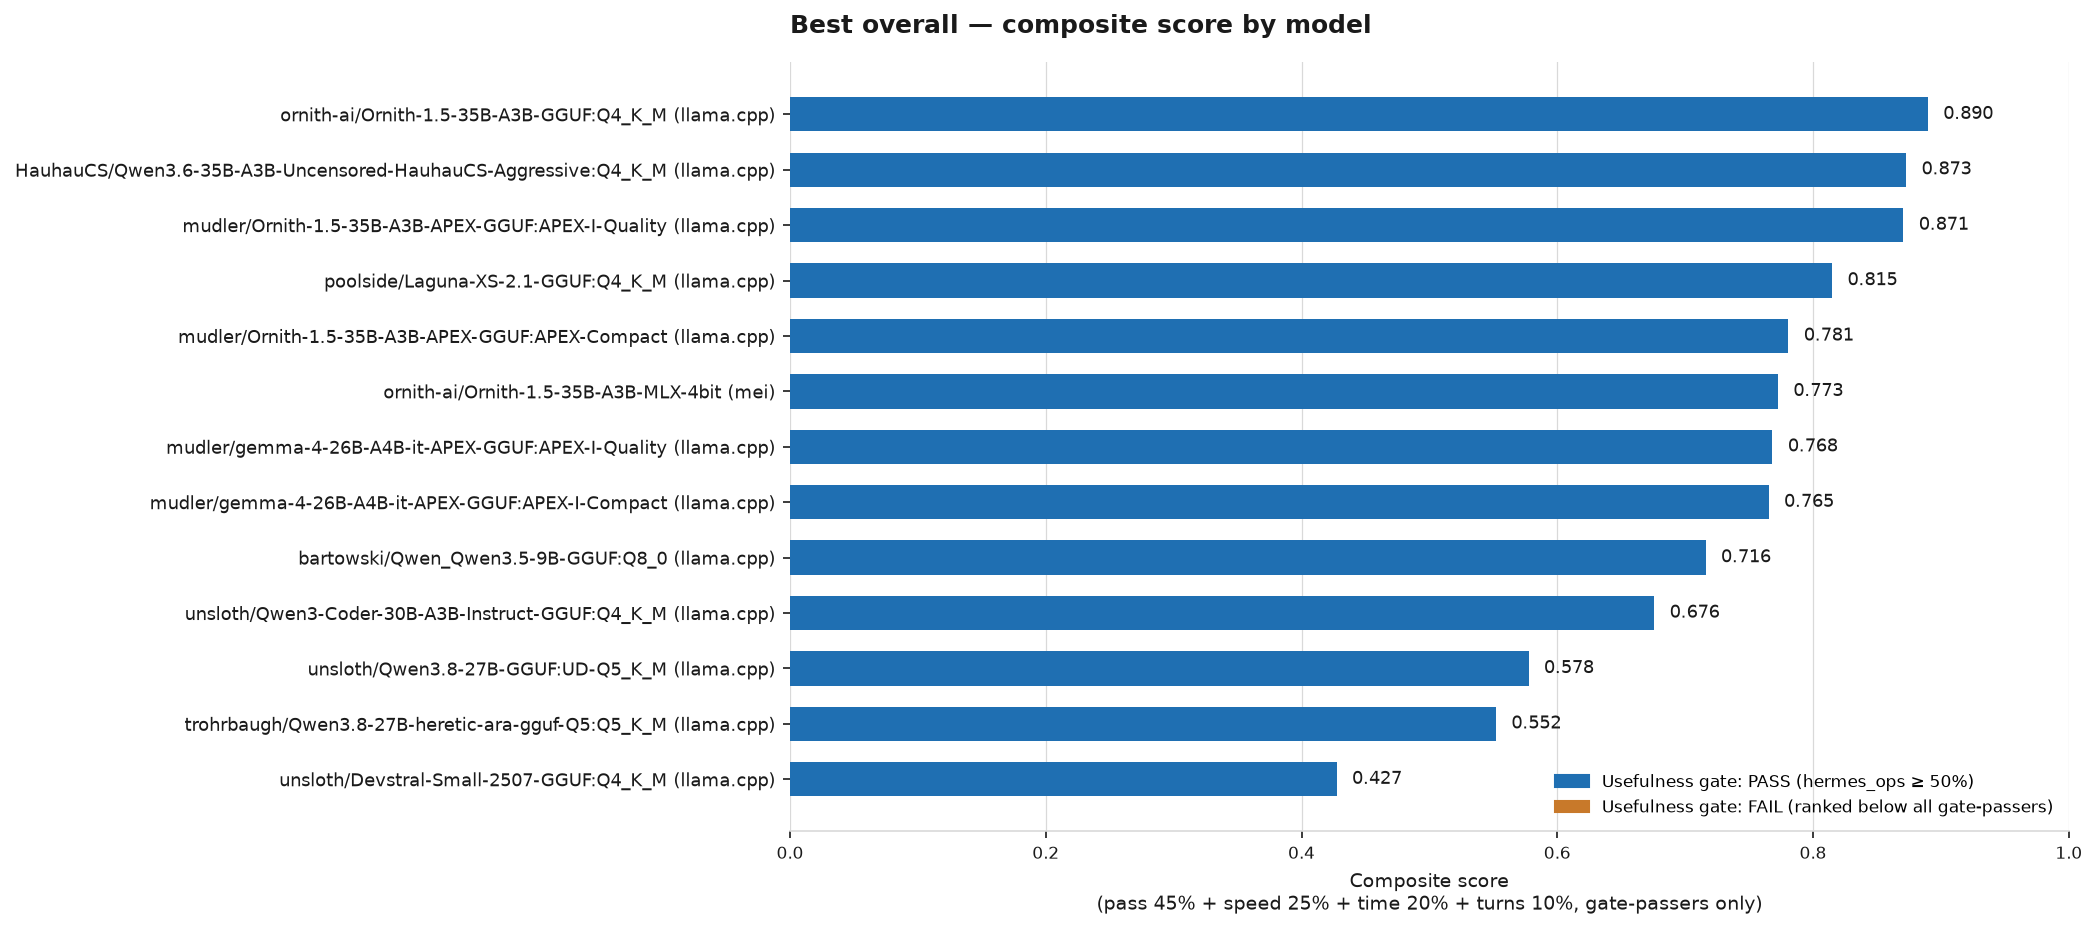
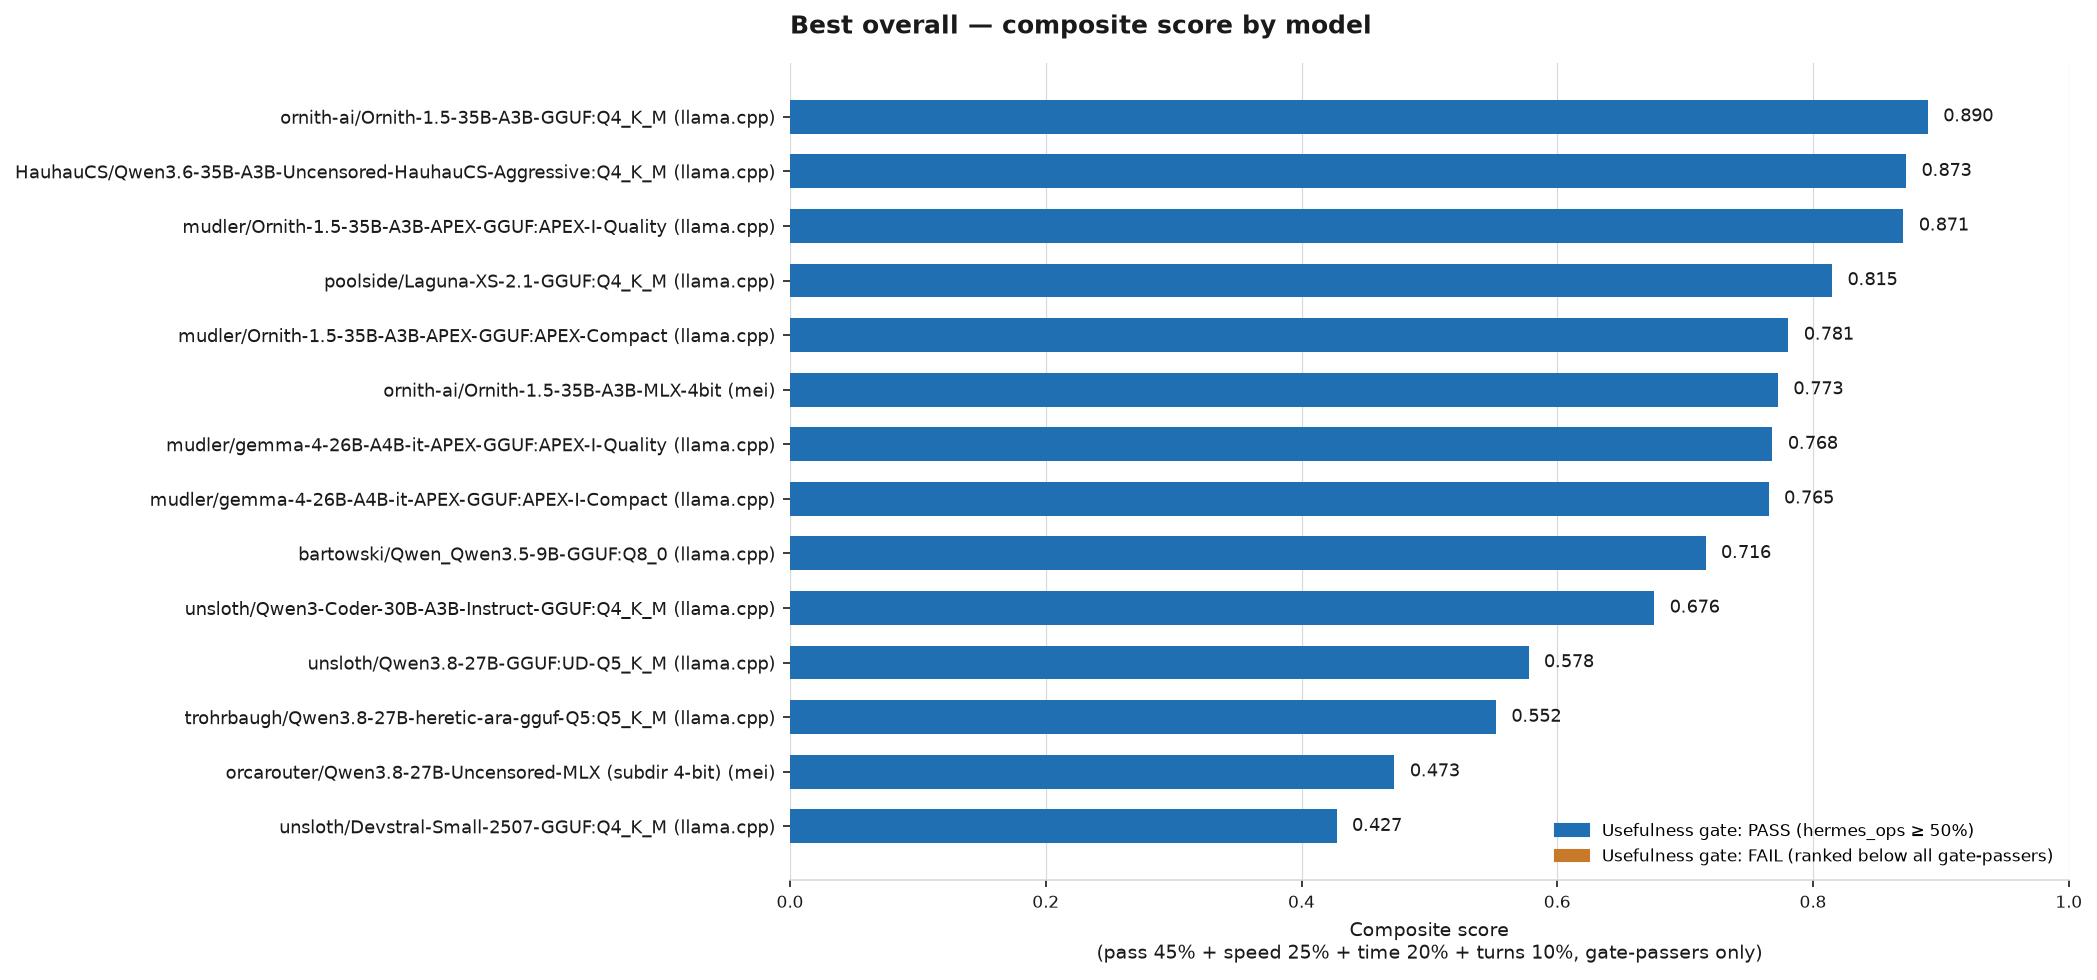
results(mei#67e897e): Heretic/Qwen3.8-27B-Uncensored-MLX full post-fix benchmark (kiem_mini, hearth_mini, kipclip_mini, hearth_full)
Post-fix complete run for configs/Qwen3.8-27B-Uncensored/mei.yaml
(mei_source_commit 67e897e streaming multi-tool-call SSE-index fix,
config_hash 40fbffd03a95, clean runner_git_sha 0e516aa414aa).

25 total rows this leg (2 sanity + 8 hermes_ops + 15 coding);
18/25 graded PASS (72%), 0 harness errors, 0 non-zero exit codes.
Defect scan clean: no malformed tool calls, connection resets, or crashes;
SSE-index fix held. Discordant rows are model-level only (max_turns loops,
per-task 3000s timeouts, one finish_reason=length truncation).
No speed gate (hermes_ops avg 4.96 tok/s > 4.0) -> full suites ran.
Prior 2-row interrupted leg (runner sha ab5fe7ef2281) preserved append-only.
Leaderboard + score chart rebuilt (2301 rows / 14 groups).

diff --git a/results/LEADERBOARD.md b/results/LEADERBOARD.md
@@ -3,7 +3,7 @@
 Regenerated from `log.jsonl` by `runner/build_leaderboard.py` — do not
 hand-edit rows below, edit the log and regenerate instead.
 
-> **⚠ 138/2276 rows below predate 2026-08-21
+> **⚠ 138/2301 rows below predate 2026-08-21
 > grading fixes** (no `runner_git_sha` — that field didn't exist yet).
 > **Do not treat any pre-2026-08-21 PASS/FAIL as final signal** until
 > re-run under current grading. Known-affected checks: `kiem_mini-feature`
@@ -255,6 +255,7 @@ added explicitly to record that default rather than leave it invisible.
 | openai/gpt-5.6-luna | openrouter | — | None | unspecified | n/a | 2/2 | [f1e3043189f3](configs/f1e3043189f3.yaml) | 1e67356823c2 | 9 | 100% | 0 | 35.5 | 4.80 | 0 | — | 0 | — | — | — | — |
 | openai/gpt-5.6-luna | openrouter | — | None | unspecified | n/a | — | [f1e3043189f3](configs/f1e3043189f3.yaml) | 20ce58c43993+dirty | 17 | 94% | 0 | 25.9 | 3.35 | 0 | 11.8 | 17 | — | — | — | — |
 | openai/gpt-5.6-luna | openrouter | — | None | unspecified | n/a | 2/2 | [f1e3043189f3](configs/f1e3043189f3.yaml) | 9d8c6a3619ec+dirty | 2 | 100% | 0 | 12.3 | 2.15 | 0 | — | 0 | — | — | — | — |
+| orcarouter/Qwen3.8-27B-Uncensored-MLX (subdir 4-bit) | mei | — | 1.0 | thinking | n/a | 2/2 | [40fbffd03a95](configs/40fbffd03a95.yaml) | 0e516aa414aa | 23 | 70% | 16 | 6.6 | 304.51 | 0 | 9.2 | 7 | 2.1 | MLX 4-bit affine g64 (orcarouter repack of heretic-org abliteration, qwen3_5 arch) | — | — |
 | orcarouter/Qwen3.8-27B-Uncensored-MLX (subdir 4-bit) | mei | — | 1.0 | thinking | n/a | 2/2 | [40fbffd03a95](configs/40fbffd03a95.yaml) | ab5fe7ef2281 | 0 | n/a (all harness errors) | 0 | 8.3 | 7.32 | 0 | — | 0 | 0.4 | MLX 4-bit affine g64 (orcarouter repack of heretic-org abliteration, qwen3_5 arch) | — | — |
 | orcarouter/Qwen3.8-27B-Uncensored-MLX (subdir 4-bit) | mei | — | 1.0 | thinking | n/a | — | [9a0bccfab07b](configs/9a0bccfab07b.yaml) — *config since changed* | 952f3df59606 | 20 | 65% | 13 | 5.7 | 379.91 | 1 | 10.7 | 12 | 2.3 | MLX 4-bit affine g64 (orcarouter repack of heretic-org abliteration, qwen3_5 arch) | — | — |
 | orcarouter/Qwen3.8-27B-Uncensored-MLX (subdir 4-bit) | mei | — | 1.0 | thinking | n/a | 2/2 | [9a0bccfab07b](configs/9a0bccfab07b.yaml) — *config since changed* | b293b2de057f | 3 | 33% | 1 | 5.8 | 218.79 | 0 | — | 0 | 2.0 | MLX 4-bit affine g64 (orcarouter repack of heretic-org abliteration, qwen3_5 arch) | — | — |
@@ -366,7 +367,8 @@ most total coding+hermes_ops evidence, then recency.
 | 10 | unsloth/Qwen3-Coder-30B-A3B-Instruct-GGUF:Q4_K_M | llama.cpp | — | instruct | 644415678c37 | PASS (75%, 8) | 0.676 | 87% (15) | 20.8 tok/s | 299 | 27.5 |
 | 11 | unsloth/Qwen3.8-27B-GGUF:UD-Q5_K_M | llama.cpp | — | thinking (medium) | 340ca3032e6c | PASS (88%, 8) | 0.578 | 87% (15) | 6.7 tok/s | 841 | 13.3 |
 | 12 | trohrbaugh/Qwen3.8-27B-heretic-ara-gguf-Q5:Q5_K_M | llama.cpp | — | thinking (medium) | 891242963db5 | PASS (100%, 8) | 0.552 | 80% (15) | 6.5 tok/s | 1129 | 15.4 |
-| 13 | unsloth/Devstral-Small-2507-GGUF:Q4_K_M | llama.cpp | — | n/a | ffa862c18cff | PASS (75%, 8) | 0.427 | 60% (15) | 7.7 tok/s | 1021 | 27.9 |
+| 13 | orcarouter/Qwen3.8-27B-Uncensored-MLX (subdir 4-bit) | mei | — | thinking | 40fbffd03a95 | PASS (62%, 8) | 0.473 | 73% (15) | 6.6 tok/s | 1240 | 15.3 |
+| 14 | unsloth/Devstral-Small-2507-GGUF:Q4_K_M | llama.cpp | — | n/a | ffa862c18cff | PASS (75%, 8) | 0.427 | 60% (15) | 7.7 tok/s | 1021 | 27.9 |
 
 ![Best overall composite score by model](score_chart.png)
 
@@ -783,6 +785,12 @@ confirmed-stable, just untested for flakiness.
 | openai/gpt-5.6-luna | openrouter | f1e3043189f3 | 20ce58c43993+dirty | kipclip_mini | 3/3 |
 | openai/gpt-5.6-luna | openrouter | f1e3043189f3 | 9d8c6a3619ec+dirty | hermes_ops | 2/2 |
 | openai/gpt-5.6-luna | openrouter | f1e3043189f3 | 9d8c6a3619ec+dirty | sanity | 2/2 |
+| orcarouter/Qwen3.8-27B-Uncensored-MLX (subdir 4-bit) | mei | 40fbffd03a95 | 0e516aa414aa | hearth_full | 2/3 |
+| orcarouter/Qwen3.8-27B-Uncensored-MLX (subdir 4-bit) | mei | 40fbffd03a95 | 0e516aa414aa | hearth_mini | 3/3 |
+| orcarouter/Qwen3.8-27B-Uncensored-MLX (subdir 4-bit) | mei | 40fbffd03a95 | 0e516aa414aa | hermes_ops | 5/8 |
+| orcarouter/Qwen3.8-27B-Uncensored-MLX (subdir 4-bit) | mei | 40fbffd03a95 | 0e516aa414aa | kiem_mini | 2/5 |
+| orcarouter/Qwen3.8-27B-Uncensored-MLX (subdir 4-bit) | mei | 40fbffd03a95 | 0e516aa414aa | kipclip_mini | 4/4 |
+| orcarouter/Qwen3.8-27B-Uncensored-MLX (subdir 4-bit) | mei | 40fbffd03a95 | 0e516aa414aa | sanity | 2/2 |
 | orcarouter/Qwen3.8-27B-Uncensored-MLX (subdir 4-bit) | mei | 40fbffd03a95 | ab5fe7ef2281 | sanity | 2/2 |
 | orcarouter/Qwen3.8-27B-Uncensored-MLX (subdir 4-bit) | mei | 9a0bccfab07b | 952f3df59606 | hearth_full | 3/3 |
 | orcarouter/Qwen3.8-27B-Uncensored-MLX (subdir 4-bit) | mei | 9a0bccfab07b | 952f3df59606 | hearth_mini | 3/3 |
